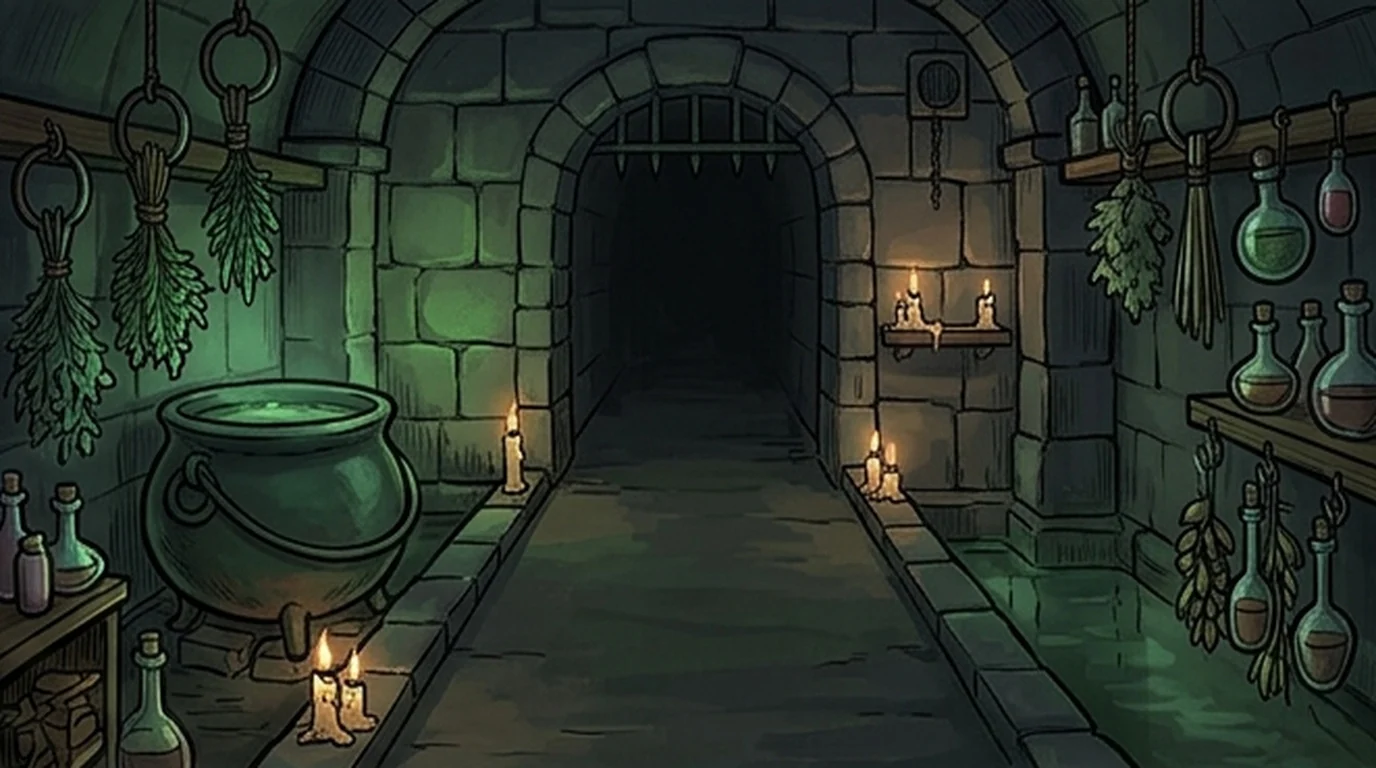
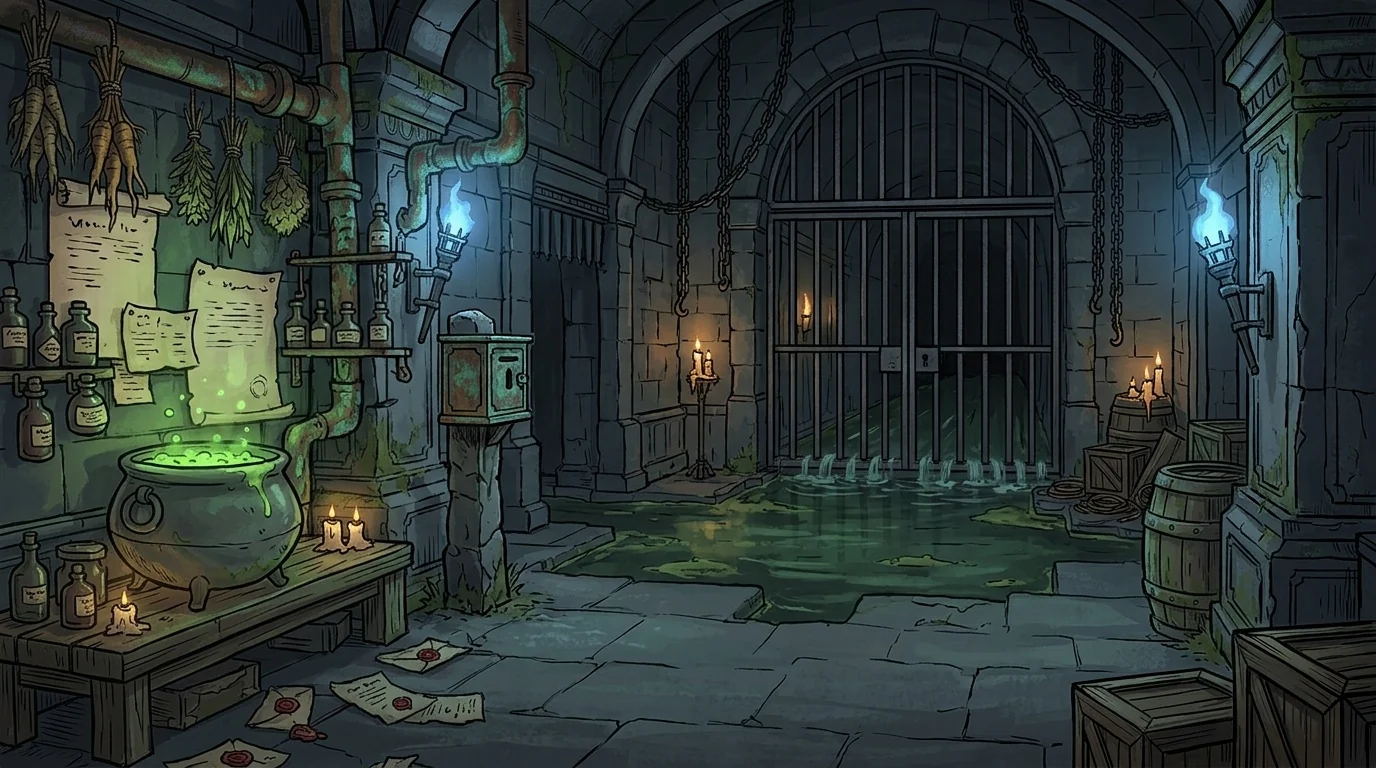
Redrawn boss and training backgrounds, table surfaces and crypt fog (1.19.2)
Claude-Session: https://claude.ai/code/session_01F3jdtH3Kw3Tv7NrxL5HtFj

diff --git a/CHANGELOG.md b/CHANGELOG.md
@@ -9,12 +9,13 @@ Guild Ledger uses a three-part version number, `MAJOR.MINOR.PATCH`:
 The version lives in `VERSION` near the top of the script in `src/ui.html`. It is shown at the bottom of every screen and sent with every run report, so feedback can be matched to the build that produced it.
 
 ## 1.19.2 (2026-10-09)
-Sharper batch 3 art.
+Sharper batch 3 art, with the large pieces redrawn.
 
 - The table surfaces for each place were small tiles stretched to 360 px squares, which blurred and squashed them. They now show at the size they were painted, with no stretching.
 - The boss and training backgrounds no longer get a sharpening pass, which left halos around edges.
 - Backgrounds are saved at WebP quality 86 instead of 72, table surfaces at 90 instead of 72, and atmosphere layers at 85 instead of 70. The map medallions are kept at 240 px instead of 160 px, so they stay sharp on high-density screens.
-- Prompts for redrawing the large pieces at full size are in `art/redo-art.md`.
+- The boss and training backgrounds and all six table surfaces are redrawn at full size: each background is its own 1376x768 painting, and each surface is about 600-690 px, shown without stretching.
+- The Crypt's fog layer is redrawn larger. The other atmosphere layers are unchanged.
 
 ## 1.19.1 (2026-10-09)
 Contracts and cards sized to the screen, with no scrolling.
